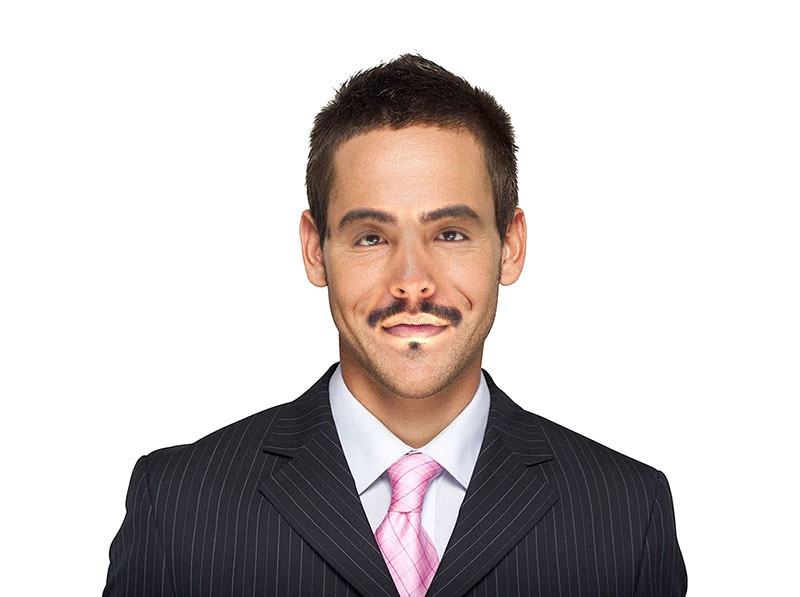
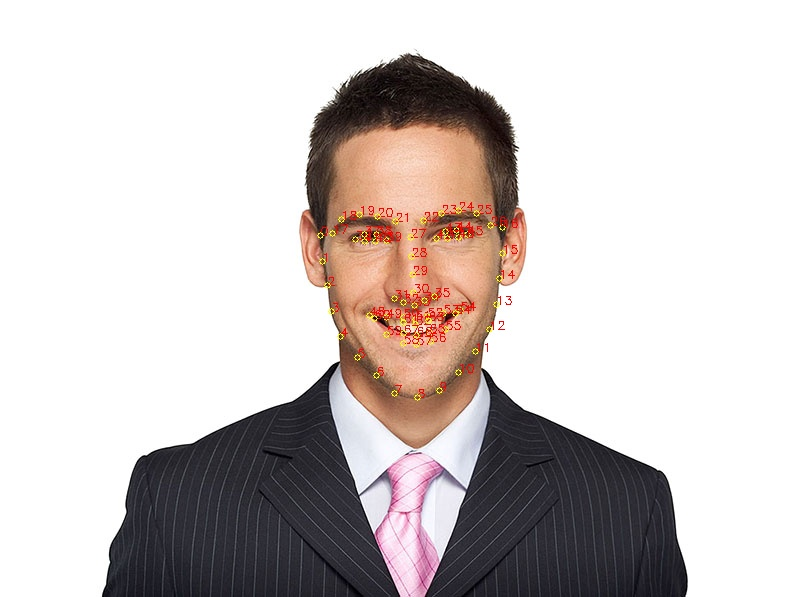
Got landmarks working for input image.

diff --git a/landmarks.py b/landmarks.py
@@ -1,4 +1,10 @@
+import cv2
+import dlib
+import numpy
+import sys
+
 PREDICTOR_PATH = "shape_predictor_68_face_landmarks.dat"
+SCALE_FACTOR = 1
 
 detector = dlib.get_frontal_face_detector()
 predictor = dlib.shape_predictor(PREDICTOR_PATH)
@@ -12,3 +18,26 @@ def get_landmarks(im):
         raise NoFaces
 
     return numpy.matrix([[p.x, p.y] for p in predictor(im, rects[0]).parts()])
+
+def annotate_landmarks(im, landmarks):
+    im = im.copy()
+    for idx, point in enumerate(landmarks):
+        pos = (point[0, 0], point[0, 1])
+        cv2.putText(im, str(idx), pos,
+                    fontFace=cv2.FONT_HERSHEY_SCRIPT_SIMPLEX,
+                    fontScale=0.4,
+                    color=(0, 0, 255))
+        cv2.circle(im, pos, 3, color=(0, 255, 255))
+    return im
+
+def read_im_and_landmarks(fname):
+    im = cv2.imread(fname, cv2.IMREAD_COLOR)
+    im = cv2.resize(im, (im.shape[1] * SCALE_FACTOR,
+                         im.shape[0] * SCALE_FACTOR))
+    s = get_landmarks(im)
+
+    return im, s
+
+im1, landmarks1 = read_im_and_landmarks(sys.argv[1])
+
+cv2.imwrite('output.jpg', annotate_landmarks(im1, landmarks1))
